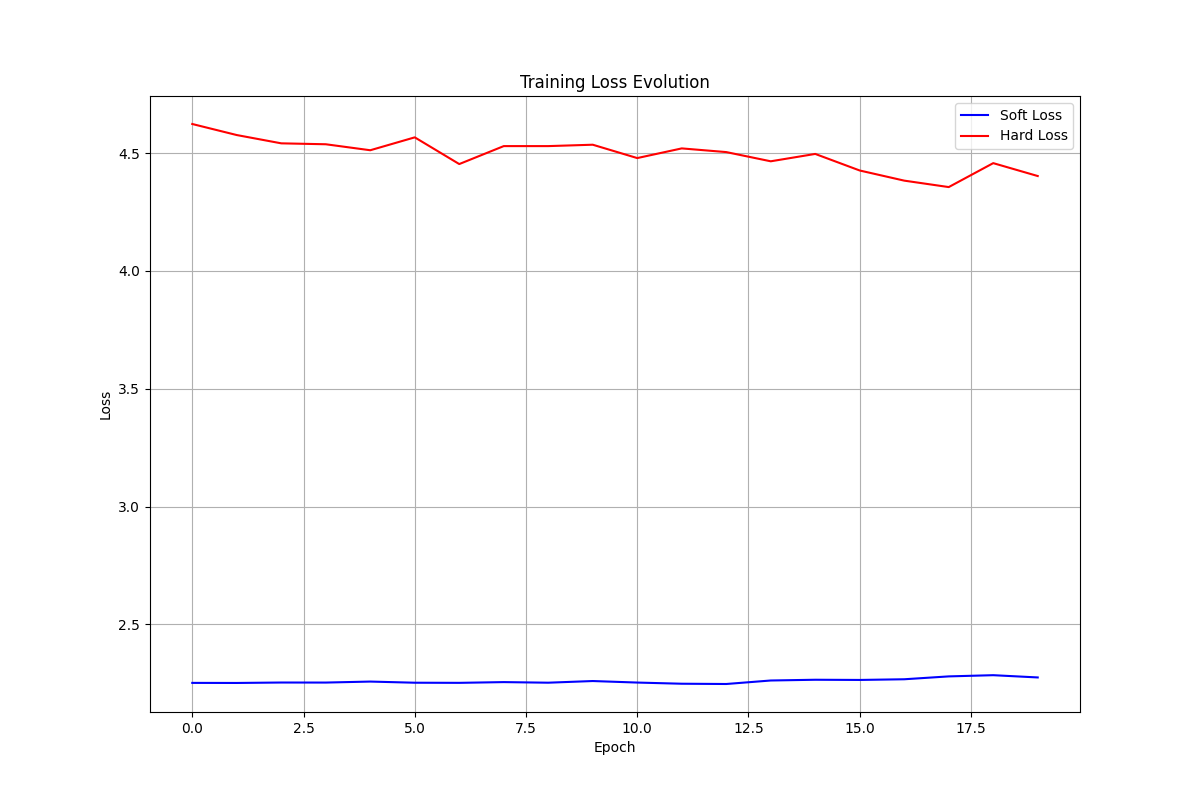
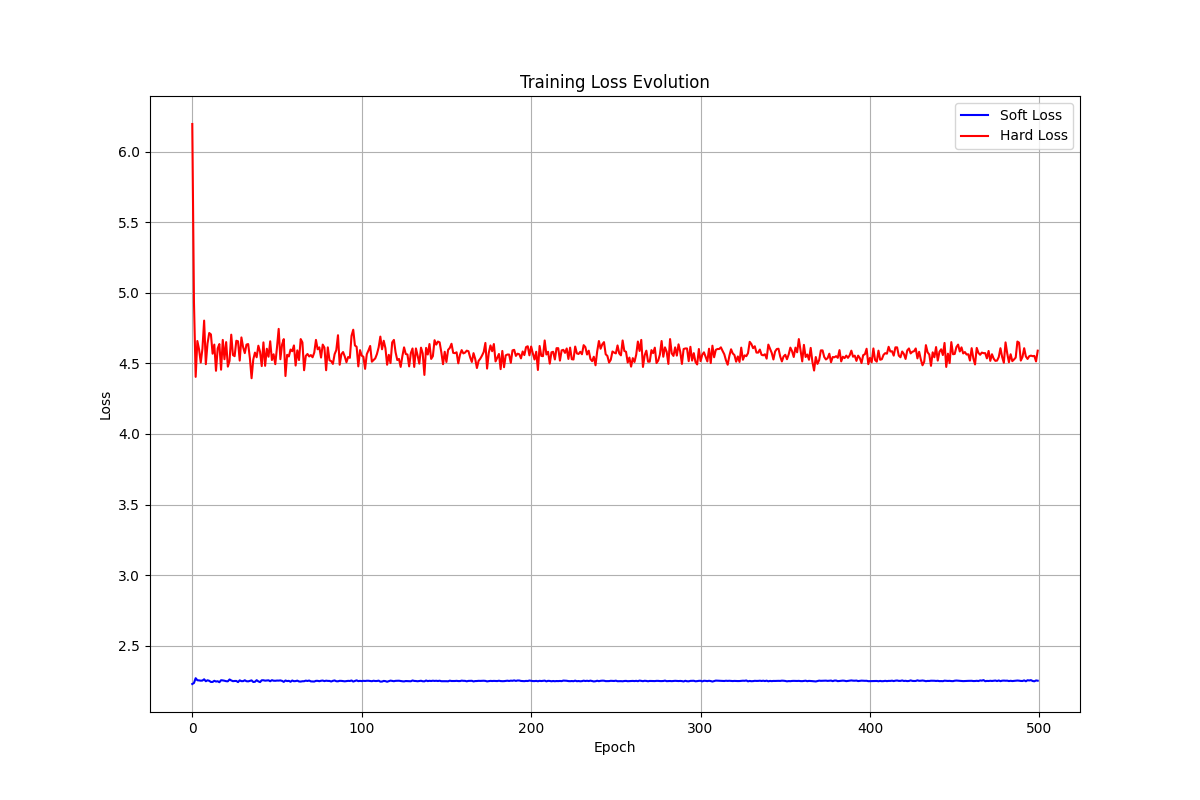
Correct implementations
Fix learning rate to decay and not grow
Make temp shrink slower
Scale noise to gradient

diff --git a/train_optimized.py b/train_optimized.py
@@ -174,7 +174,7 @@ def train_gol_model(epochs=200, learning_rate=0.001, batch_size = 64, temperatur
     # Initialize loss tracker
     loss_tracker = LossTracker()
     
-    min_temperature = 0.02    # Don't go below this
+    min_temperature = 0.2    # Don't go below this
 
     print(f"Training for {epochs} epochs...")
     start_time = time.time()
@@ -187,20 +187,21 @@ def train_gol_model(epochs=200, learning_rate=0.001, batch_size = 64, temperatur
         epoch_start = time.time()
         for epoch in range(epochs):
             
-            # Slower initial learning rate with gradual increase
-            learning_rate = learning_rate * (1.0 + 0.005 * epoch)
-            learning_rate = min(learning_rate, 0.2)  # Cap at 0.2         
+            # Slower initial learning rate with gradual increase 
+            # or should it be learning rate decay ??
+            current_learning_rate = learning_rate * (1.0 - 0.005 * epoch)
+            current_learning_rate = max(current_learning_rate, 0.001)  # Cap at 0.001         
 
             # Calculate decaying temperature
             current_temperature = max(
-                temperature * (1.0 - epoch / (epochs * 1.5)),  # Decay over 80% of training
+                temperature * (1.0 - epoch / (epochs * 1.1)),  # Decay over 90% of training
                 min_temperature
             )
 
             # Set the temperature for this epoch
             ca.set_temperature(current_temperature)
             # Call the train_epoch method (to be implemented in Rust)
-            soft_loss, hard_loss = ca.train_epoch(configs, targets, learning_rate, epoch)                      
+            soft_loss, hard_loss = ca.train_epoch(configs, targets, current_learning_rate, epoch)                      
             
             # Update loss tracker
             loss_tracker.update(epoch, soft_loss, hard_loss)
@@ -214,7 +215,7 @@ def train_gol_model(epochs=200, learning_rate=0.001, batch_size = 64, temperatur
     except AttributeError:
         print("The train_epoch method is not available. Falling back to standard training.")
         try:
-            ca.train(configs, targets, learning_rate, epochs)
+            ca.train(configs, targets, current_learning_rate, epochs)
             print("Training completed without loss tracking.")
         except Exception as e:
             print(f"Training error: {e}")
@@ -231,7 +232,7 @@ def train_gol_model(epochs=200, learning_rate=0.001, batch_size = 64, temperatur
             small_configs = configs[:10].copy()
             small_targets = targets[:10].copy()
             try:
-                ca.train(small_configs, small_targets, learning_rate, 10)
+                ca.train(small_configs, small_targets, current_learning_rate, 10)
                 print("Training with smaller batch succeeded!")
             except Exception as e:
                 print(f"Still failed with error: {e}")
@@ -252,10 +253,10 @@ def train_gol_model(epochs=200, learning_rate=0.001, batch_size = 64, temperatur
 if __name__ == "__main__":
     parser = argparse.ArgumentParser(description='Train a DiffLogic CA to learn Game of Life rules')
     parser.add_argument('--epochs', type=int, default=500, help='Number of training epochs')
-    parser.add_argument('--lr', type=float, default=0.01, help='Learning rate')
-    parser.add_argument('--batchsize', type=int, default=64, help='Batch size')
-    parser.add_argument('--tmp', type=float, default=1.5, help='Temperature')
-    parser.add_argument('--l2', type=float, default=0.001, help='L2 regularisation strength')
+    parser.add_argument('--lr', type=float, default=0.05, help='Learning rate')
+    parser.add_argument('--batchsize', type=int, default=32, help='Batch size')
+    parser.add_argument('--tmp', type=float, default=1.8, help='Temperature')
+    parser.add_argument('--l2', type=float, default=0.002, help='L2 regularisation strength')
     parser.add_argument('--visualize', action='store_true', help='Visualize evaluation results')
     parser.add_argument('--no-save-plot', action='store_false', dest='save_plot', help='Do not save loss plot')
     args = parser.parse_args()

diff --git a/src/lib.rs b/src/lib.rs
@@ -252,7 +252,7 @@ impl LogicGate {
 
         for i in 0..16 {
             
-            let noise = (rand::random::<f32>() * 2.0 - 1.0) * noise_factor;
+            let noise = (rand::random::<f32>() * 2.0 - 1.0) * noise_factor * gradient.abs(); // scale noise to gradient ?
 
             let target_direction = -gradient; // Negative of loss gradient is direction toward target
             op_gradients[i] = target_direction * ops[i] + noise;
@@ -870,7 +870,8 @@ fn train_epoch_internal(&mut self, initial_states: &Array4<bool>, target_states:
                         }
                     }
                 }
-                                
+
+                // diagnostics     
                 if batch_idx == 0 && i == start_idx {
                     // Create a temporary clone for analysis
                     let circuits_clone = {
